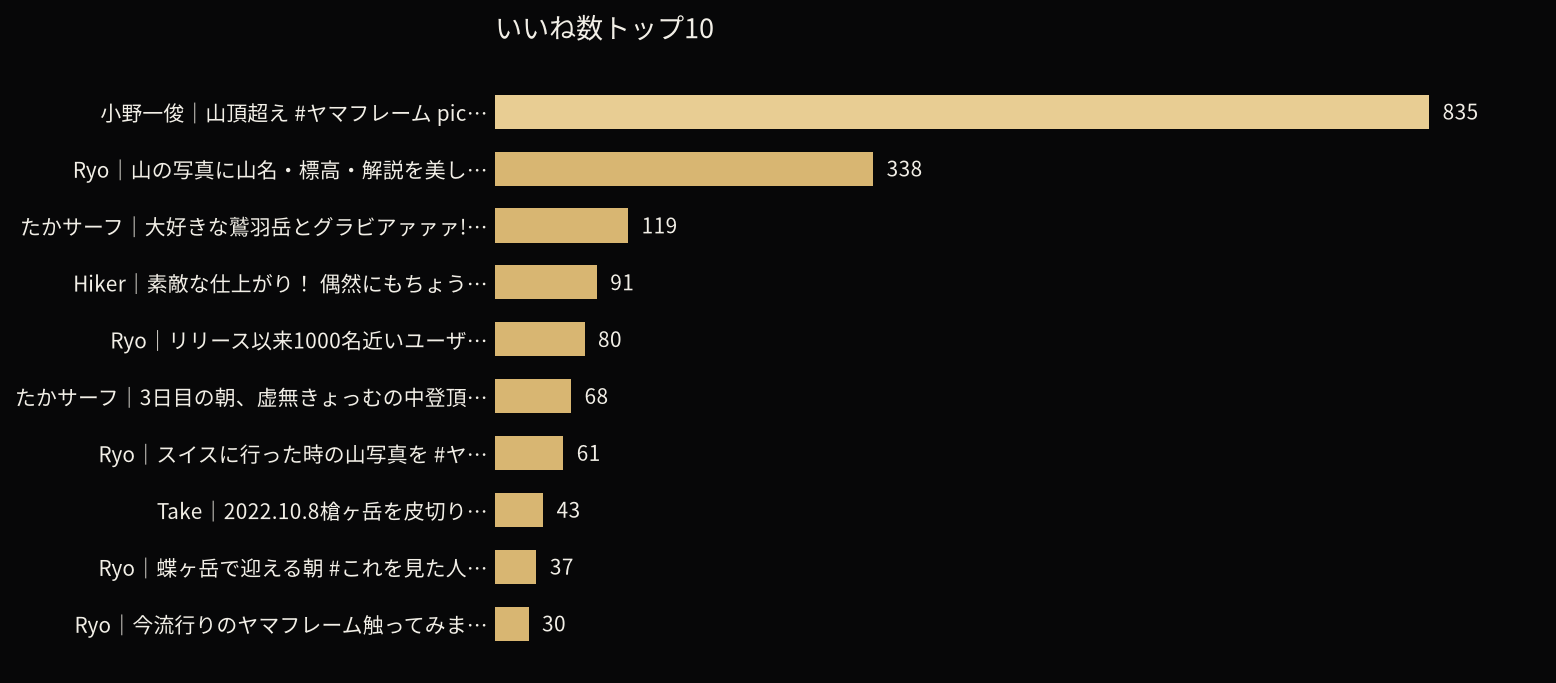
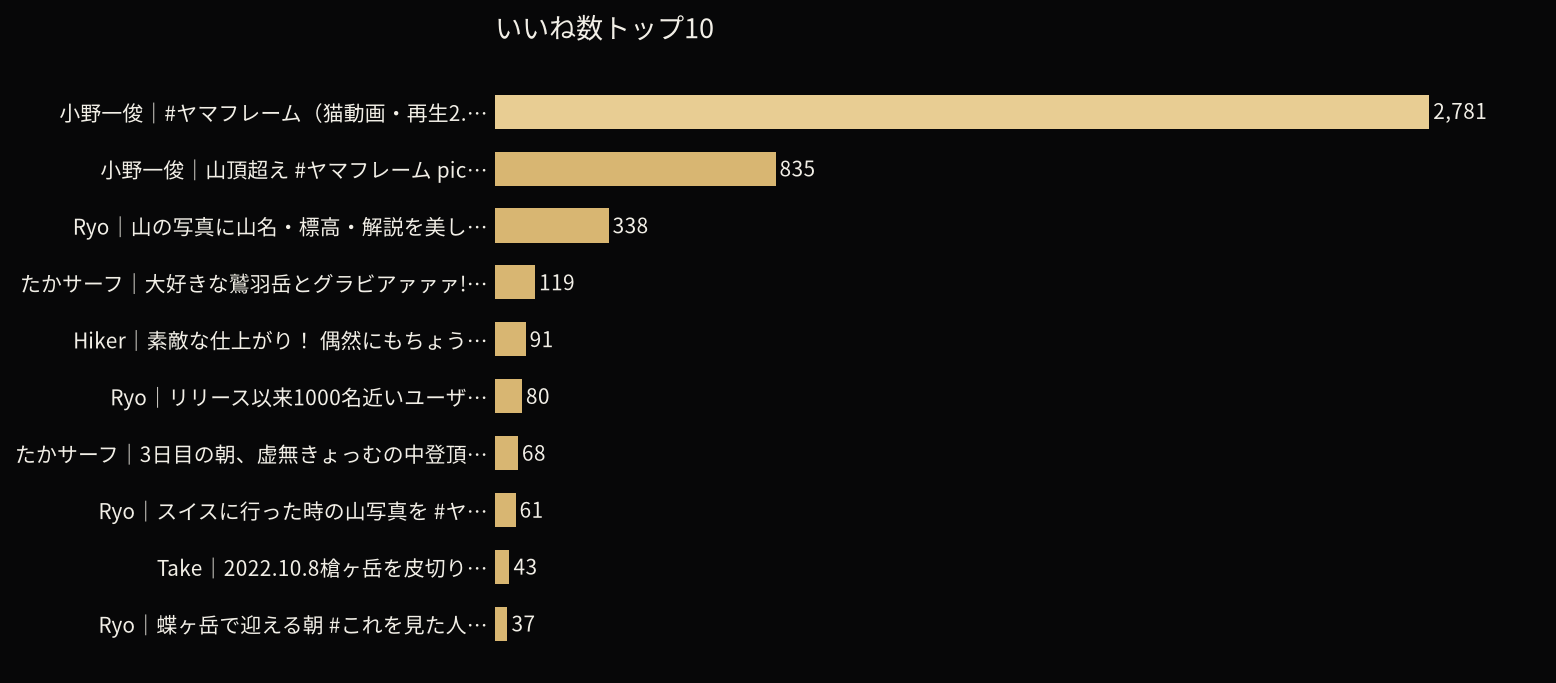
取りこぼしていた最大バズ投稿（猫動画2,781いいね）を追加し93件に更新
本文がハッシュタグのみのためYahoo!リアルタイム検索から漏れていた。
いいねランキング・クラスタ・レポートを更新。

Claude-Session: https://claude.ai/code/session_01JMsbE7yzscabH4y4ov72Pp

diff --git a/analysis/generate_cluster_map.py b/analysis/generate_cluster_map.py
@@ -26,7 +26,7 @@ rows = list(csv.DictReader(open("analysis/yamaframe_x_posts_2026-08-01.csv", enc
 
 def classify(r):
     t, h = r["text"], r["handle"]
-    if re.search(r"間違った使い方|グラビア|山頂超え|大喜利", t): return "ネタ・#間違った使い方"
+    if re.search(r"間違った使い方|グラビア|山頂超え|大喜利|猫動画", t): return "ネタ・#間違った使い方"
     if re.search(r"線は消えない|桜島|改行できると嬉しい", t): return "要望・指摘"
     if re.search(r"キャンプ|温泉|ツーリング|海沿い|猫写真|動物写真|日常でも|YAMAPのトップ|カバー写真|Exif", t): return "用途の拡張発見"
     if h == "@r_outdoor_photo" and re.search(r"ユーザー数|リリース|アップデート|更新しました|開催|協賛|検討中|皆様|認知|フック|サイクル", t): return "運営アナウンス"
@@ -71,7 +71,7 @@ for i, r in enumerate(rows):
     if int(r["likes"] or 0) >= 80:
         ax.annotate(r["text"][:12] + "…", (xy[i, 0], xy[i, 1]), xytext=(0, 12),
                     textcoords="offset points", ha="center", color=INK, fontsize=9)
-ax.set_title("投稿内容のクラスタマップ（92件 / 点の大きさ＝いいね数）",
+ax.set_title("投稿内容のクラスタマップ（93件 / 点の大きさ＝いいね数）",
              color=INK, fontsize=13, pad=14, loc="left")
 ax.margins(0.10)
 ax.set_ylim(bottom=xy[:,1].min() - 1.6)

diff --git a/analysis/generate_charts.py b/analysis/generate_charts.py
@@ -61,7 +61,7 @@ ax.set_title("いいね数トップ10", color=INK, fontsize=13, pad=14, loc="lef
 savefig(fig, "chart_top_likes.png")
 
 # 3) クラスタ構成（full_report.md の分類に基づく）
-clusters = [("要望・指摘", 3), ("ネタ・#間違った使い方", 6), ("用途の拡張発見", 8),
+clusters = [("要望・指摘", 3), ("ネタ・#間違った使い方", 7), ("用途の拡張発見", 8),
             ("感想・絶賛", 18), ("運営アナウンス", 27), ("作品・山行記録", 28)]
 names, sizes = zip(*clusters)
 fig, ax = plt.subplots(figsize=(9, 4.6), facecolor=BG)
@@ -71,7 +71,7 @@ for b, v in zip(bars, sizes):
 style_ax(ax); ax.set_xticks([])
 ax.tick_params(axis="y", labelcolor=INK)
 ax.set_xlim(0, max(sizes) * 1.14)
-ax.set_title("投稿クラスタの構成（92件）", color=INK, fontsize=13, pad=14, loc="left")
+ax.set_title("投稿クラスタの構成（93件）", color=INK, fontsize=13, pad=14, loc="left")
 savefig(fig, "chart_clusters.png")
 
 print("done")

diff --git a/analysis/full_report.md b/analysis/full_report.md
@@ -1,12 +1,12 @@
-# ヤマフレーム Xポスト フル解析レポート（92件 / 2026-08-01時点）
+# ヤマフレーム Xポスト フル解析レポート（93件 / 2026-08-01時点）
 
 データ: `yamaframe_x_posts_2026-08-01.csv`
-収集方法: Yahoo!リアルタイム検索（「#ヤマフレーム」77件＋タグなし「ヤマフレーム」の新規15件）
+収集方法: Yahoo!リアルタイム検索（「#ヤマフレーム」77件＋タグなし「ヤマフレーム」の新規15件＋個別確認で発見した1件）
 
 ## サマリー
 
-- リリース（7/23）から約1週間で92件の言及、批判ゼロ。ユーザー数は運営発表で 24hで700人 → 2日で1000人 → 1週間で1700人。
-- いいねトップは「間違った使い方」ネタ（猫の山頂超え835いいね）。バズはネタ枠、継続利用は山行記録と用途拡張が支える二層構造。
+- リリース（7/23）から約1週間で93件の言及、批判ゼロ。ユーザー数は運営発表で 24hで700人 → 2日で1000人 → 1週間で1700人。
+- いいねトップは「間違った使い方」ネタ（本文ハッシュタグのみの猫動画2,781いいね・再生2.3万、次点も猫の山頂超え835いいね）。バズはネタ枠、継続利用は山行記録と用途拡張が支える二層構造。
 - 実質的な改善要望は3件のみで、うち1件（山名の改行）は実装済み。
 
 ## ワードクラウド
@@ -50,6 +50,7 @@
 
 | いいね | アカウント | 内容 |
 |---|---|---|
+| 2,781 | 小野一俊 @kazutoshi_ono_ | 猫動画（本文は #ヤマフレーム のみ・再生2.3万） |
 | 835 | 小野一俊 @kazutoshi_ono_ | 猫の「山頂超え」 #間違った使い方 |
 | 338 | Ryo Takano @r_outdoor_photo | リリース告知（山名・標高・解説を重ねるアプリ） |
 | 119 | たかサーフ @taka_SURF2018 | 鷲羽岳とグラビア #間違った使い方 |
@@ -59,7 +60,6 @@
 | 61 | Ryo Takano | スイスの山写真を編集 |
 | 43 | Take @Takeochiro | 3000m峰21座完登記念 |
 | 37 | Ryo Takano | 蝶ヶ岳の朝 |
-| 30 | （引用）@negiasa | 「Photoshopいじるまでもない手軽さ」 |
 
 ### 投稿数上位アカウント
 
@@ -69,7 +69,7 @@
 
 | 分類 | 件数目安 | 備考 |
 |---|---|---|
-| ポジティブ | 約84件 | 絶賛・作品投稿・ネタ投稿含む |
+| ポジティブ | 約85件 | 絶賛・作品投稿・ネタ投稿含む |
 | 中立 | 約5件 | 淡々とした作品投稿・運営告知 |
 | ネガティブ（批判） | 0件 | アプリへの不満は見当たらず |
 | 改善要望・指摘 | 3件 | 下記参照 |
@@ -101,7 +101,7 @@
 
 ![投稿内容のクラスタマップ](chart_cluster_map.png)
 
-クラスタマップは全92件を1投稿＝1点で配置したもの（点の大きさ＝いいね数、`generate_cluster_map.py` で再生成可能）。点の色分けはキーワードルールによる自動分類のため、下記の手動クラスタリングとは件数が多少ずれる（例: 引用リポストで感想が本文に含まれる投稿は自動分類だと「感想・絶賛」に寄る）。ネタ枠がわずか6件で全いいねの4割超を稼いでいるのが視覚的にわかる。
+クラスタマップは全93件を1投稿＝1点で配置したもの（点の大きさ＝いいね数、`generate_cluster_map.py` で再生成可能）。点の色分けはキーワードルールによる自動分類のため、下記の手動クラスタリングとは件数が多少ずれる（例: 引用リポストで感想が本文に含まれる投稿は自動分類だと「感想・絶賛」に寄る）。ネタ枠がわずか6件で全いいねの4割超を稼いでいるのが視覚的にわかる。
 
 1. **運営アナウンス**（約27件）
    ユーザー数推移（24hで700人→2日で1000人→1週間で1700人）、アップデート告知、フォトコンテスト開催、協賛（itomici等）。
@@ -116,11 +116,11 @@
 
 ## 示唆
 
-- いいね上位は「間違った使い方」ネタ（835/119）と公式リリース告知（338）。**バズの主エンジンはネタ枠**、継続利用のコアはクラスタ2と5。
+- いいね上位は「間違った使い方」ネタ（2,781/835/119）と公式リリース告知（338）。**バズの主エンジンはネタ枠**、継続利用のコアはクラスタ2と5。
 - 撮影段階から「ヤマフレーム前提で撮る」ユーザーが出現（行動変容）。
 - 「青プリン先生（山座同定リプライbot的アカウント）」との比較言及あり。競合というより界隈の文化として共存。
 - ネガティブゼロは初週バイアス（好意的な人しか投稿しない）の可能性もあるため、継続的にウォッチ推奨。
 
 ## 注意事項
-- Yahoo!リアルタイム検索は直近期間のみ・リプライは部分的にしか拾えないため、全言及の完全網羅ではない。
+- Yahoo!リアルタイム検索は直近期間のみ・リプライは部分的にしか拾えないため、全言及の完全網羅ではない。本文がハッシュタグのみの投稿も漏れることがある（猫動画2,781いいねは個別確認で発見）。
 - いいね等の数値は収集時点の表示値。
